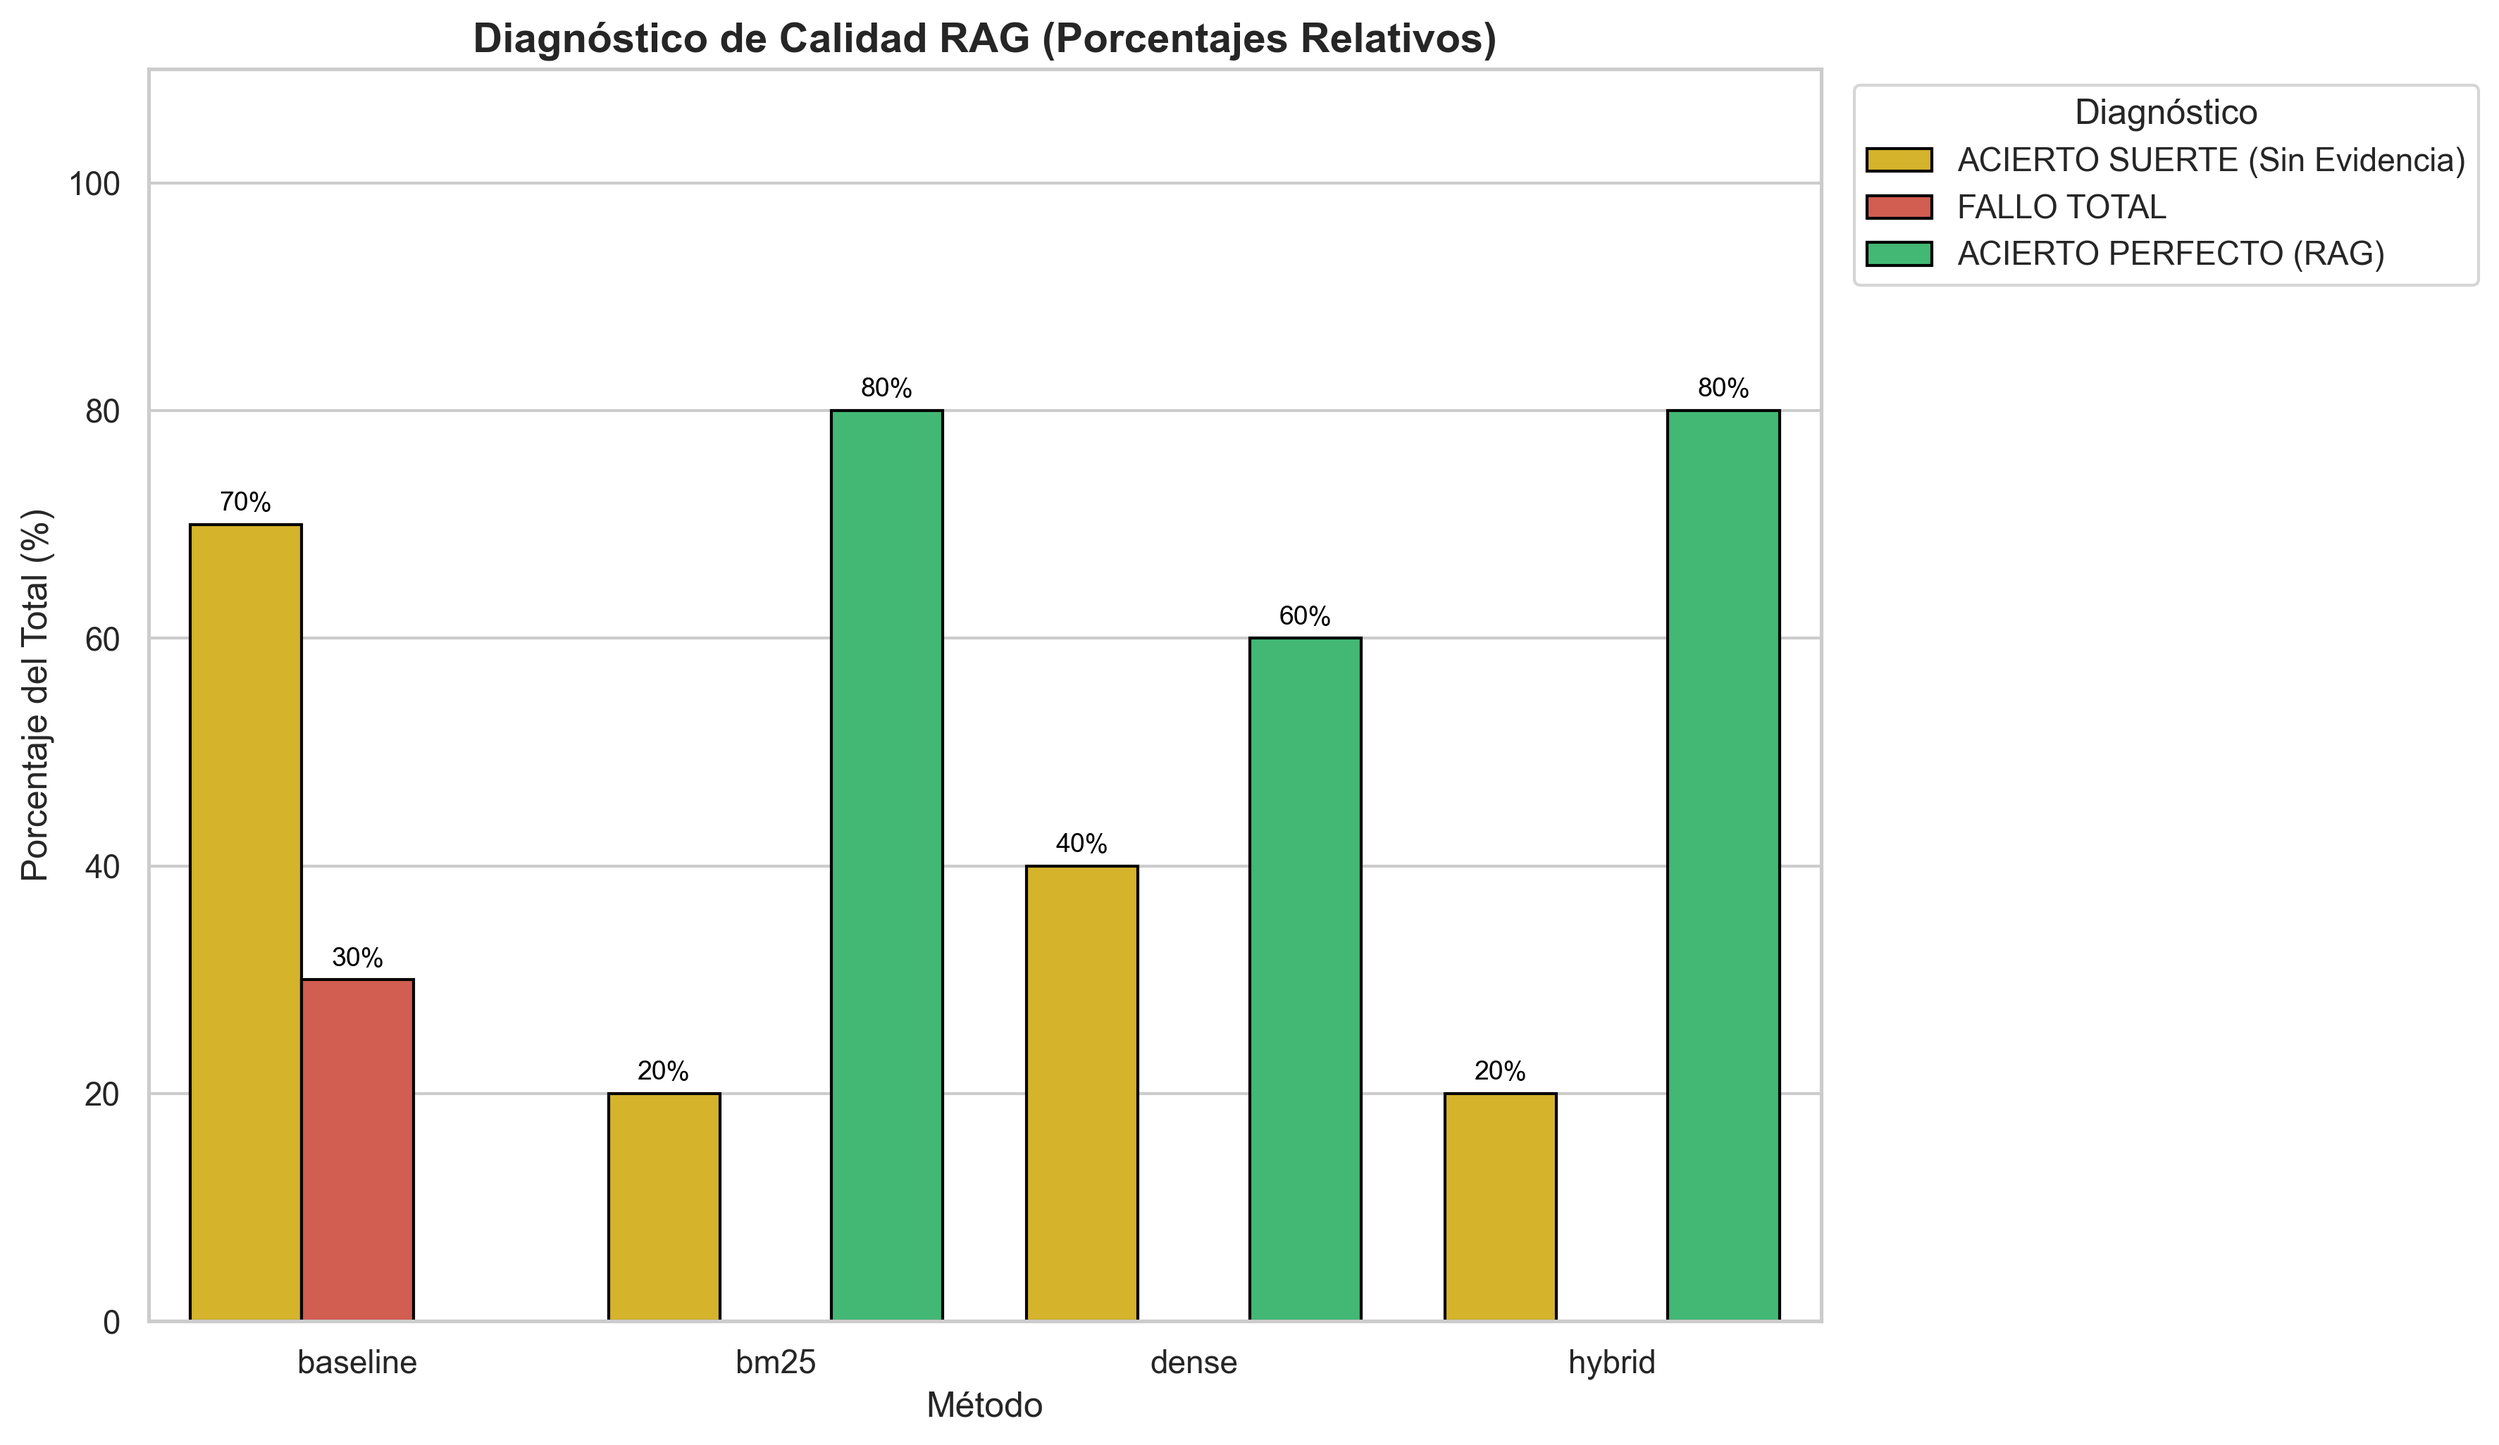
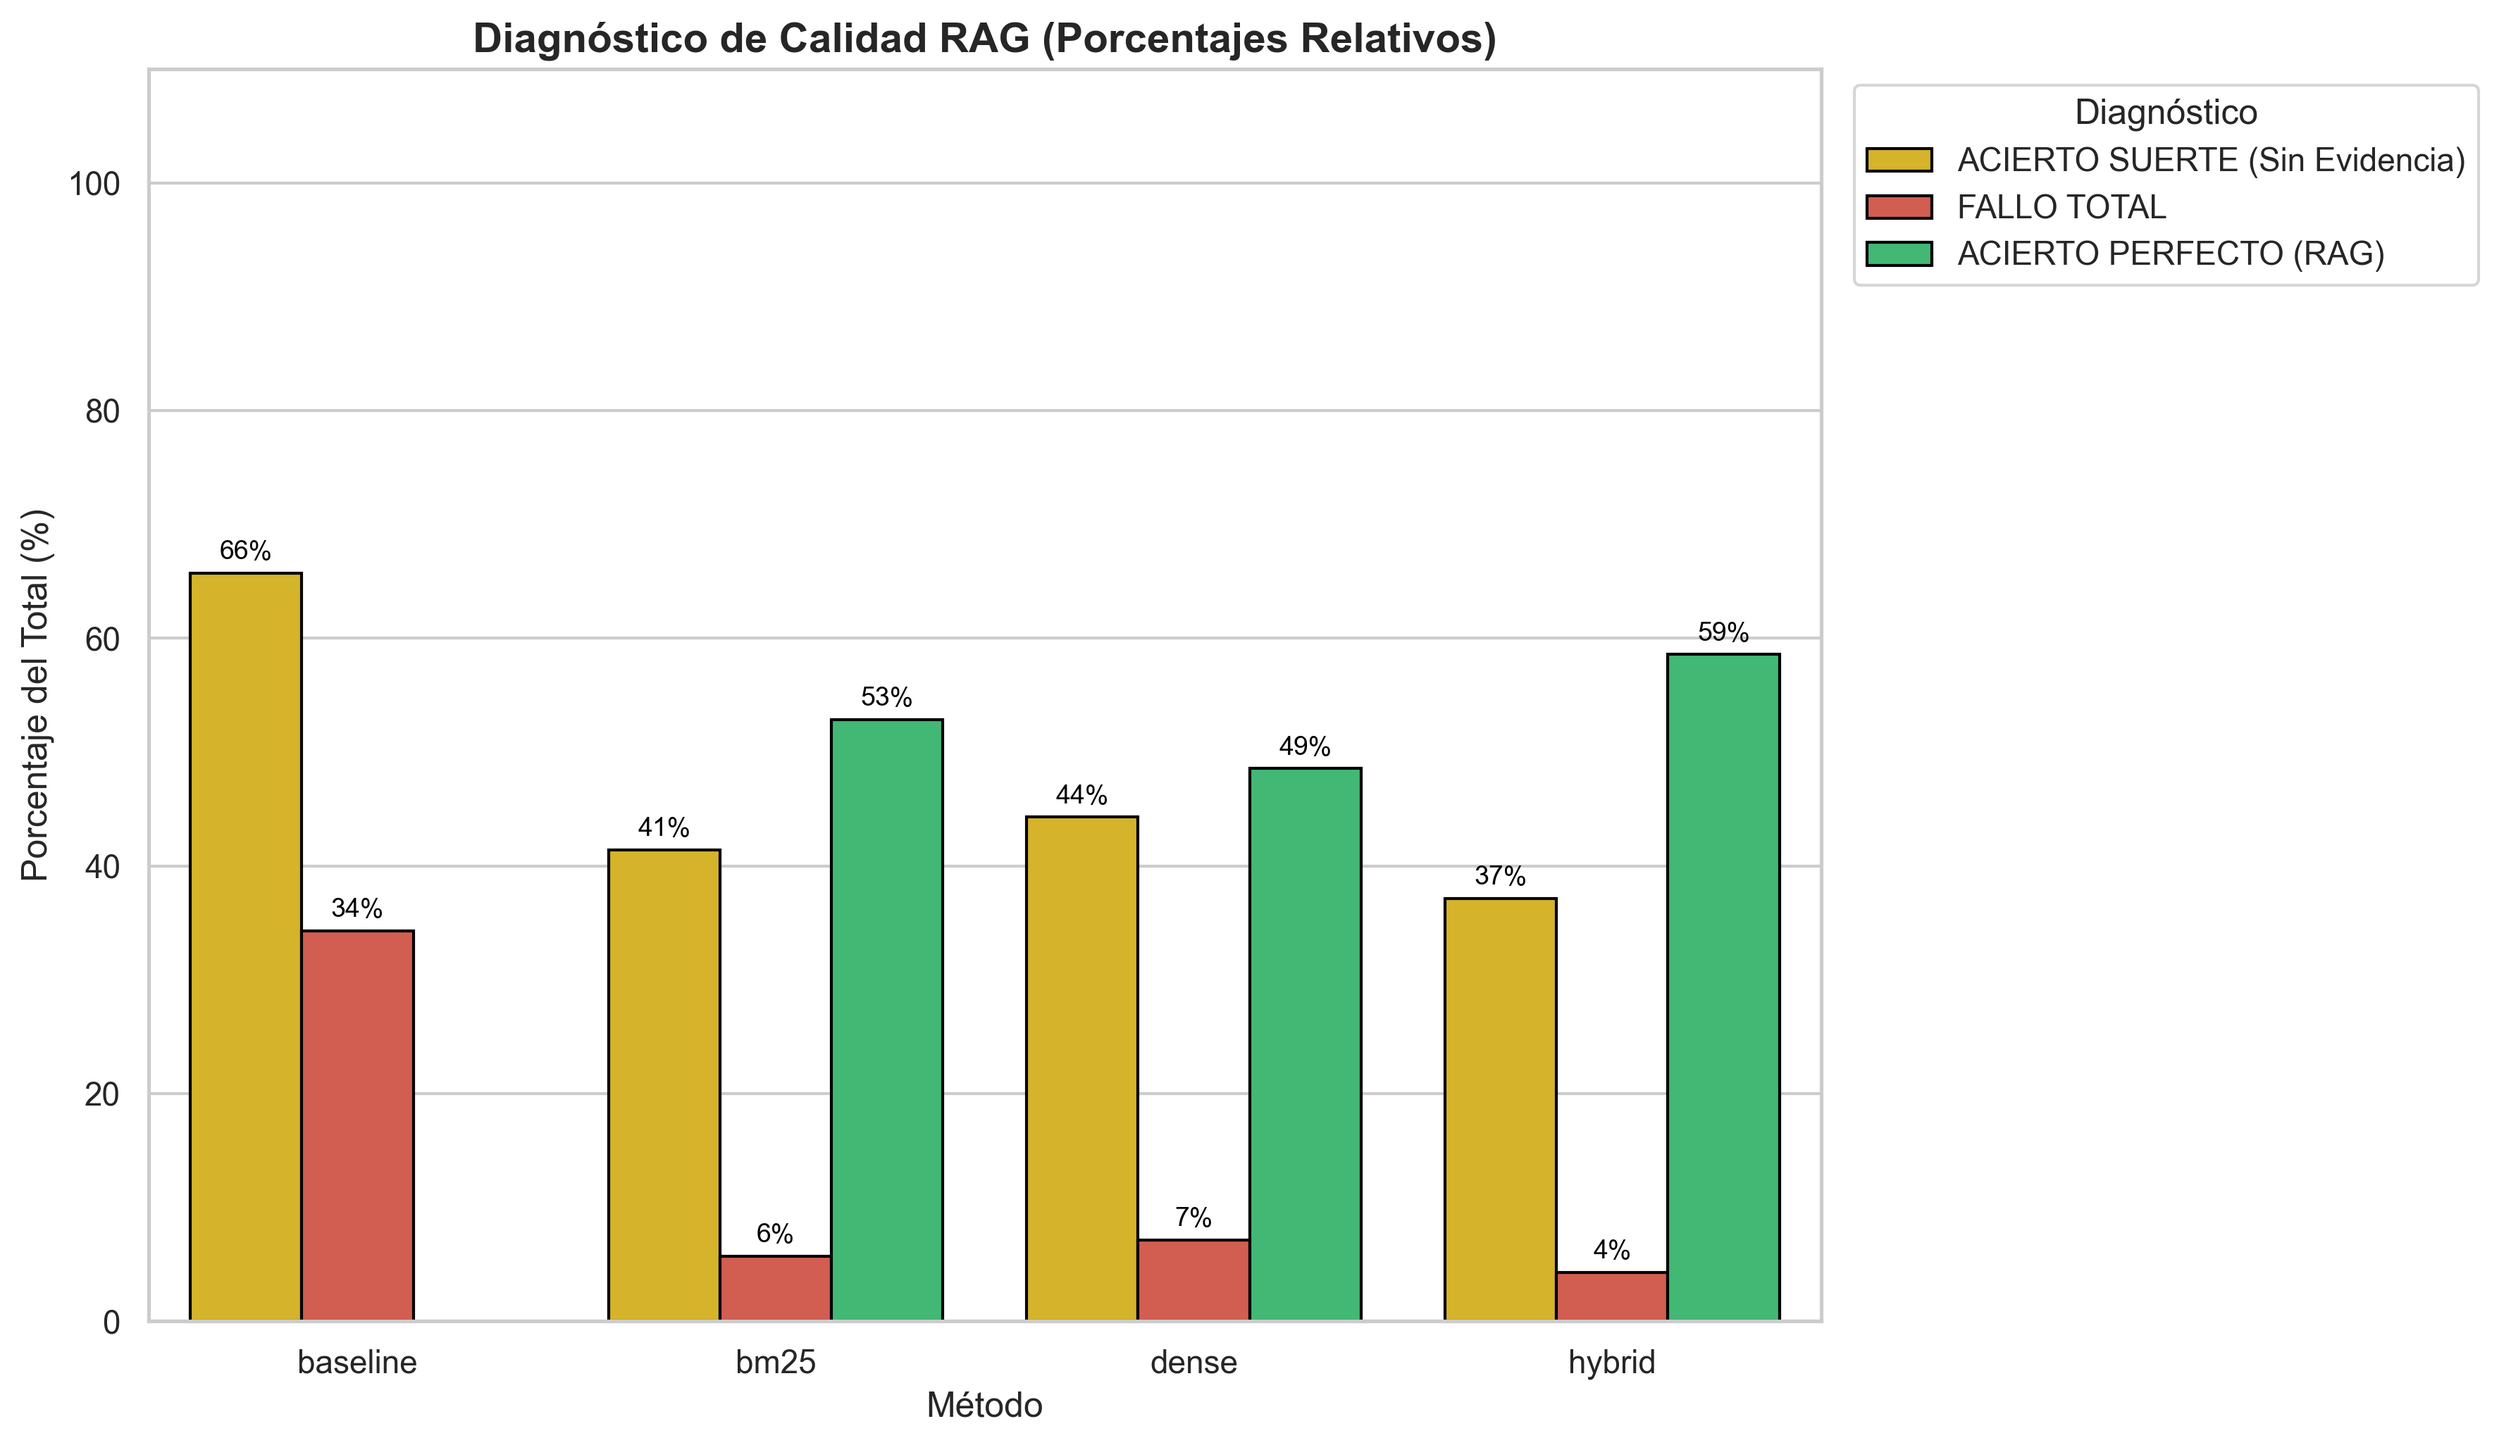
nueva prueba - stats mejoradas

diff --git a/main.py b/main.py
@@ -45,7 +45,7 @@ def main():
     setup_enviroment(False, True)
 
     # --- Preguntas - cambiar el primero a None para ejecutarlo entero y lista no vacia para pruebas
-    df = run_questions(range(20,30), None, API_KEY, PARTIAL_FILE)
+    df = run_questions(None, None, API_KEY, PARTIAL_FILE)
 
     # --- Exportar Resultados y Resumen
     df.to_csv(FINAL_FILE, index=False)
